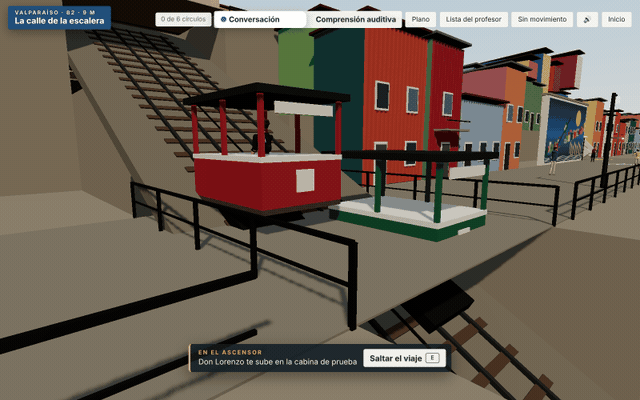
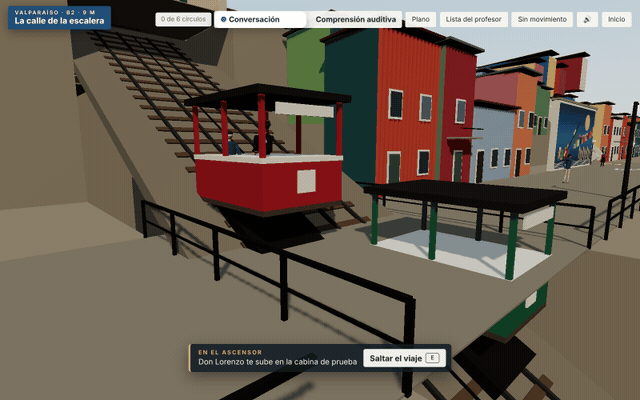
fix(ascensor): free GPU resources on unmount; don Lorenzo rides in the cabin (code review B1, B2, NB4, NB6)
Claude-Session: https://claude.ai/code/session_01A42TnuMVXQ5NuaJfE4y5K6

diff --git a/app/el-ascensor-del-cerro/cerro3d.ts b/app/el-ascensor-del-cerro/cerro3d.ts
@@ -570,10 +570,10 @@ export function buildCerro(scene: THREE.Scene, opts: { low: boolean; shadows: bo
   }
   setCabins(0);
   // Don Lorenzo, the operator, rides with you on the test run: he stands at
-  // the uphill end of the cabin, by the controls, facing up the rail. He is a
+  // the uphill end of the cabin, on the side the ride camera sees (west), facing up the rail. He is a
   // live person only while he rides (one more figure, no bake).
   const rider = makePerson(LOOKS.lorenzo, 'stand', shadows);
-  rider.root.position.set(0.55, 0, -0.95);
+  rider.root.position.set(-0.6, 0, -0.65);
   rider.root.rotation.y = Math.PI;
   let riding: 0 | 1 | null = null;
   function setRider(rail: 0 | 1 | null) {

diff --git a/docs/board/evidence/ascensor-2026-10-26/BUILD.md b/docs/board/evidence/ascensor-2026-10-26/BUILD.md
@@ -65,3 +65,22 @@ Branch `claude/escucha-3d-ascensor-cerro-b2-20261026`. These checks ran in the a
 - **Audio.** The clips exist (facilitator), but I did not listen to them. The page makes no accent claim. The procedural ambience (wind, harbour hum, gulls) was not checked by ear.
 - **Touch.** The joystick and buttons are the same code as Feria's, but no actual touch gestures were driven.
 - **Look.** The non-stereotyped look is my judgement from the screenshots, not a cultural review.
+
+## Code review fixes (Alejandro, REQUEST CHANGES B1 and B2), same day
+- **B1, unmount leak.**
+  - `cerro3d.ts` now returns `dispose()`. It frees the sign-atlas and mural CanvasTextures, every cached low-mode host bake (`hostBakes`, detached and so out of reach of the scene traverse), and the rider figure when he is not in a cabin.
+  - `World3D.tsx` cleanup calls `cerro.dispose()` and disposes every texture slot of every material in the traverse. It then calls `renderer.dispose()` and `renderer.forceContextLoss()`. The context-lost listener is removed before that call, so `onFail` does not fire on unmount.
+  - Regression test: `tests/el-ascensor-del-cerro.test.mjs`, «unmount frees the GPU…».
+- **B2, the empty cabin.**
+  - Don Lorenzo (people3d, his host look) now rides in the cabin that carries you during the funicular ride. He stands by the uphill controls on the side the ride camera sees.
+  - While he rides, his figure at the lower station is hidden, so he never appears twice. Low mode keeps a separate cached bake for that state.
+  - The copy («Don Lorenzo te sube…», «con don Lorenzo», the catalog's «viaje de prueba con el ascensorista») is now true, so I did not change it.
+  - VERIFIED visually in a 1600×1000 SwiftShader crop at ride t = 0.5: the mascot and don Lorenzo are both in the red cabin.
+  - One extra live figure costs about 30 draw calls, during the ride only. VERIFIED by a re-run of `--calls` in low mode: mid-ride on the funicular is 100 on the tablet and 103 on the phone. The maximum over all 12 places is 103 on both, so the world stays ≤ 120.
+- **NB4.** The teacher list («Moverse por el cerro») now says: «El ascensor sigue cerrado por reparación: la cabina de prueba de don Lorenzo solo sirve para recorrer el cerro en clase, no significa que ya funcione.»
+- **NB6.** `?debug` now works only when `process.env.NODE_ENV !== 'production'`. The check is guarded by try/catch.
+- **Checks after the fixes** (VERIFIED):
+  - tsc: 0 errors in my files (3 known errors elsewhere).
+  - eslint: 0 problems.
+  - `node --test tests/el-ascensor-del-cerro.test.mjs tests/3d-sin-fantasmas.test.mjs tests/noche-abierta.test.mjs`: 61/61 pass.
+  - `qa-ascensor-browser.mjs --smoke`: 65/65 passed, 0 page or console errors, no 404s.
